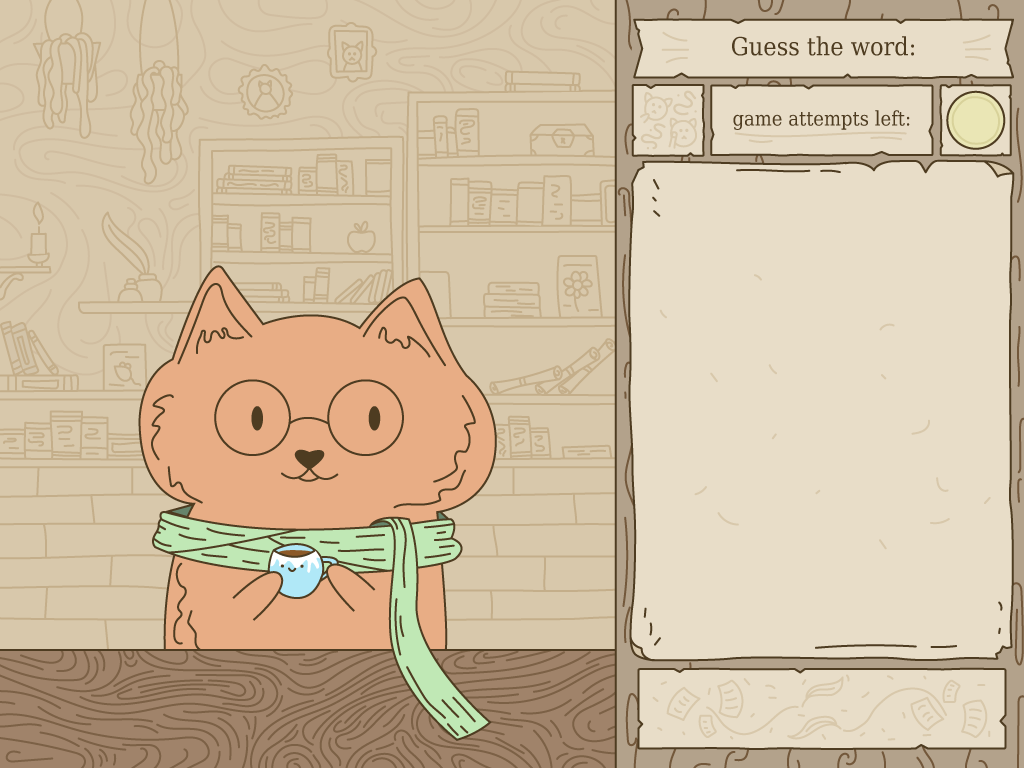
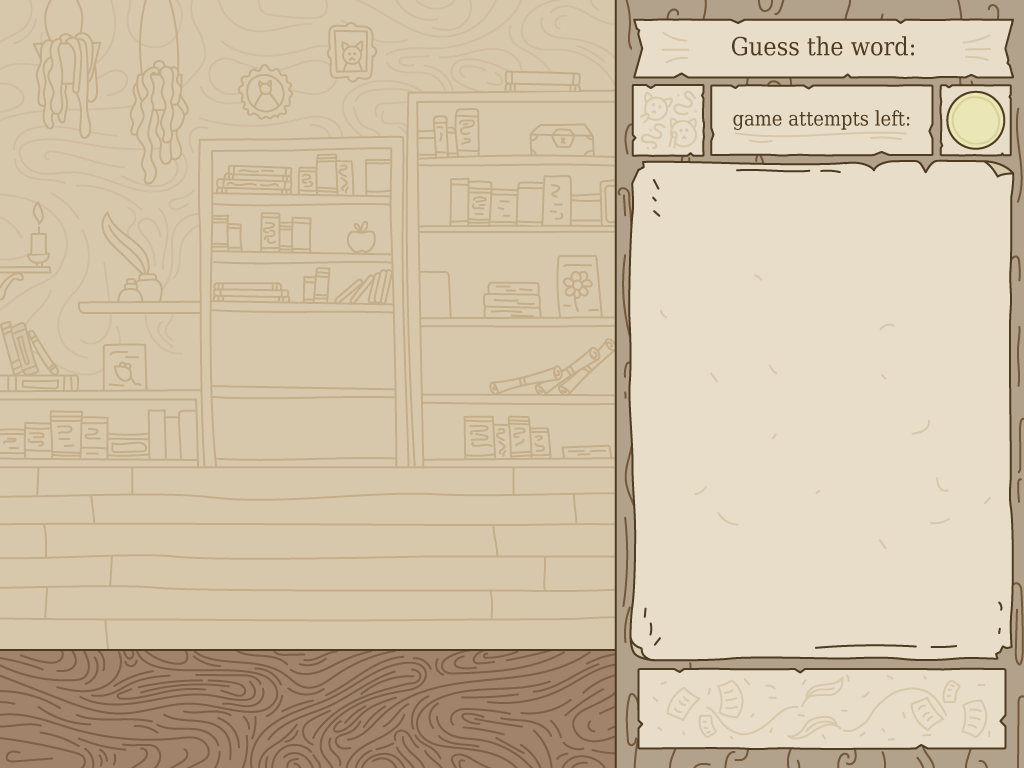
ono rabotaet

Changed region(s): [[0.125, 0.3438, 0.5, 0.9688]]

diff --git a/hangman/game.h b/hangman/game.h
@@ -93,6 +93,22 @@ void game(RenderWindow& window)
 	Sprite Backgr(tx_game_scene);
 	Backgr.setPosition(0, 0);
 
+	// Текстура изначального кота
+	Texture tx_cat;
+	tx_cat.loadFromFile("images/calm-cat.png");
+	Sprite Cat(tx_cat);
+	Cat.setPosition(140, 264);
+
+	//Текстура радостного кота
+	Texture tx_cat_happy;
+	tx_cat_happy.loadFromFile("images/happy-cat.png");
+	Sprite HappyCat(tx_cat_happy);
+
+	//Текстура грустного кота
+	Texture tx_cat_sad;
+	tx_cat_sad.loadFromFile("images/sad-cat.png");
+	Sprite SadCat(tx_cat_sad);
+
 	// Загружаем плашку с победой
 	Texture tx_win_pop_up;
 	tx_win_pop_up.loadFromFile("images/victory-or-defeat/victory.png");
@@ -148,6 +164,8 @@ void game(RenderWindow& window)
 	text_tries_amount.setPosition(974 - text_tries_amount.getGlobalBounds().width / 2, 101);
 
 	int index_clicked_letter;
+	bool happy_animate = false;
+	bool sad_animate = false;
 
 	while (window.isOpen())
 	{
@@ -177,6 +195,8 @@ void game(RenderWindow& window)
 						{
 							// Переменная для выявления, отгадал ли пользователь букву, или нет (в таком случае рисуется часть человечка)
 							int comparate = words_left;
+							happy_animate = false;
+							sad_animate = false;
 
 							index_clicked_letter = i;
 							cout << eng_alphabet[index_clicked_letter] << "\n";
@@ -190,6 +210,11 @@ void game(RenderWindow& window)
 								{
 									right_sprites[index_clicked_letter].setTexture(ts_right[index_clicked_letter]);
 									right_sprites[index_clicked_letter].setPosition(positions[i].X, positions[i].Y);
+									HappyCat.setTexture(tx_cat_happy);
+									HappyCat.setPosition(140, 264);
+									happy_animate = true;
+
+									
 
 									words_left--;
 									hidden_word[a * 2] = eng_alphabet[index_clicked_letter];
@@ -203,6 +228,9 @@ void game(RenderWindow& window)
 							{
 								wrong_sprites[index_clicked_letter].setTexture(ts_wrong[index_clicked_letter]);
 								wrong_sprites[index_clicked_letter].setPosition(positions[i].X, positions[i].Y);
+								SadCat.setTexture(tx_cat_sad);
+								SadCat.setPosition(140, 264);
+								sad_animate = true;
 
 								tries_amount--;
 								text_tries_amount.setString(to_string(tries_amount));
@@ -296,6 +324,7 @@ void game(RenderWindow& window)
 		}
 
 		window.draw(Backgr);
+		window.draw(Cat);
 		// Цикл для отображение картинок букв
 		for (int i = 0; i < letters_count; i++)
 		{
@@ -305,6 +334,15 @@ void game(RenderWindow& window)
 		}
 		window.draw(text_tries_amount);
 		
+		if (happy_animate)
+		{
+			window.draw(HappyCat);
+		}
+		if (sad_animate)
+		{
+			window.draw(SadCat);
+		}
+
 		// изображение плашки/кнопки для победы
 		if (words_left == 0 && tries_amount > 0)
 		{

diff --git a/hangman/menu.h b/hangman/menu.h
@@ -53,14 +53,14 @@ void menu(RenderWindow& window)
             }
 
             // Проверка на то, попадает ли курсор мышки в область кнопок для того, чтобы сделать эффект наведения
-			if (IntRect(390, 421, 240, 65).contains(Mouse::getPosition(window)))
-			{
-				StartT.loadFromFile("images/main_menu/Start_cursored.png");
-			}
-			if (IntRect(390, 521, 240, 65).contains(Mouse::getPosition(window)))
-			{
-				QuitT.loadFromFile("images/main_menu/Quit_cursored.png");
-			}
+            if (IntRect(390, 421, 240, 65).contains(Mouse::getPosition(window)))
+            {
+                StartT.loadFromFile("images/main_menu/Start_cursored.png");
+            }
+            if (IntRect(390, 521, 240, 65).contains(Mouse::getPosition(window)))
+            {
+                QuitT.loadFromFile("images/main_menu/Quit_cursored.png");
+            }
         }
 
         window.clear();

diff --git a/hangman/hangman.cpp b/hangman/hangman.cpp
@@ -9,6 +9,7 @@ using namespace sf;
 bool Menu()
 {
     RenderWindow window(VideoMode(1024, 768), "Lulu Library");
+    Style::Titlebar;
     menu(window);
     return 0;
 }
@@ -19,6 +20,8 @@ bool Menu()
 /// <returns></returns>
 int main()
 {
+    HWND hWnd = GetConsoleWindow();
+    ShowWindow(hWnd, SW_HIDE);
     LoadMainTheme();
     LoadClick();
     Menu();

diff --git a/hangman/files.h b/hangman/files.h
@@ -7,7 +7,7 @@
 using namespace std;
 
 string GetWord() {
-	const int countLines = 52;
+	const int countLines = 100;
 	const std::string fileName = "English-words.txt";
 	std::ifstream inFile(fileName);
 
